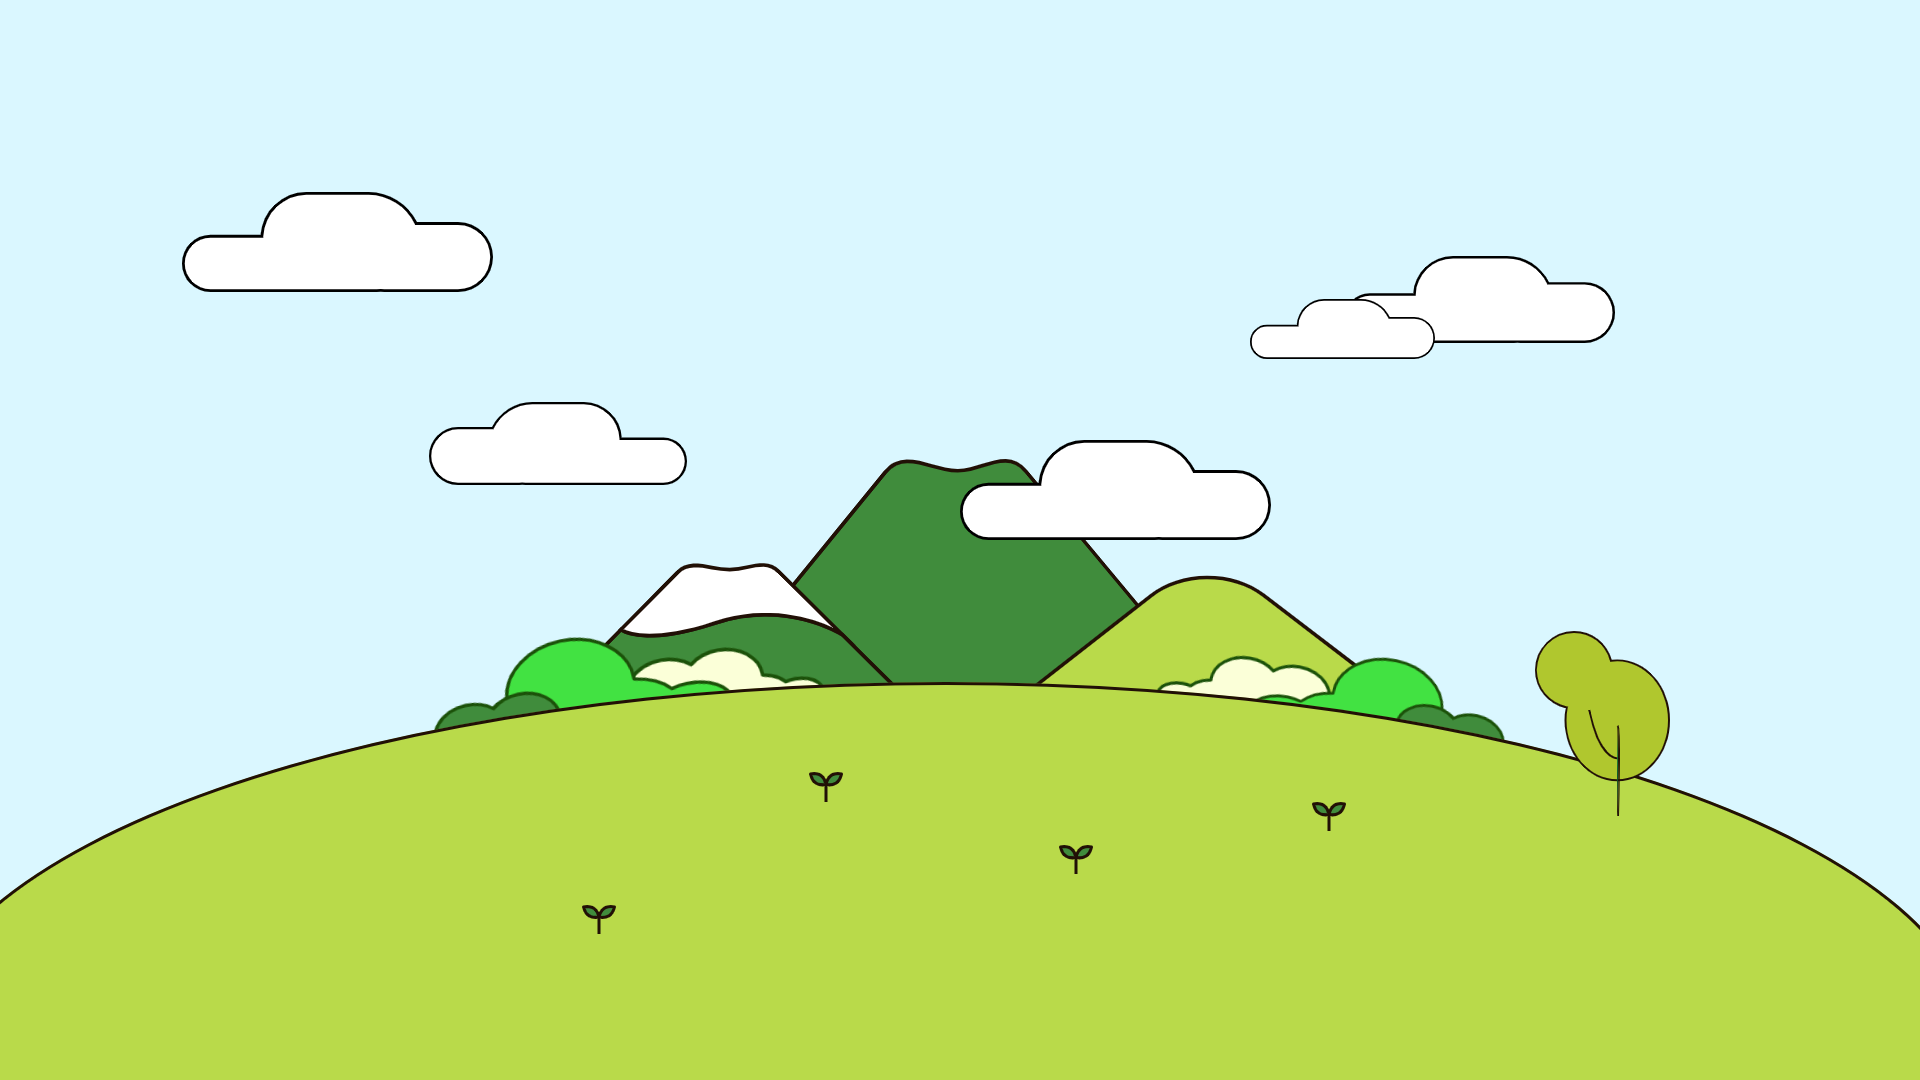
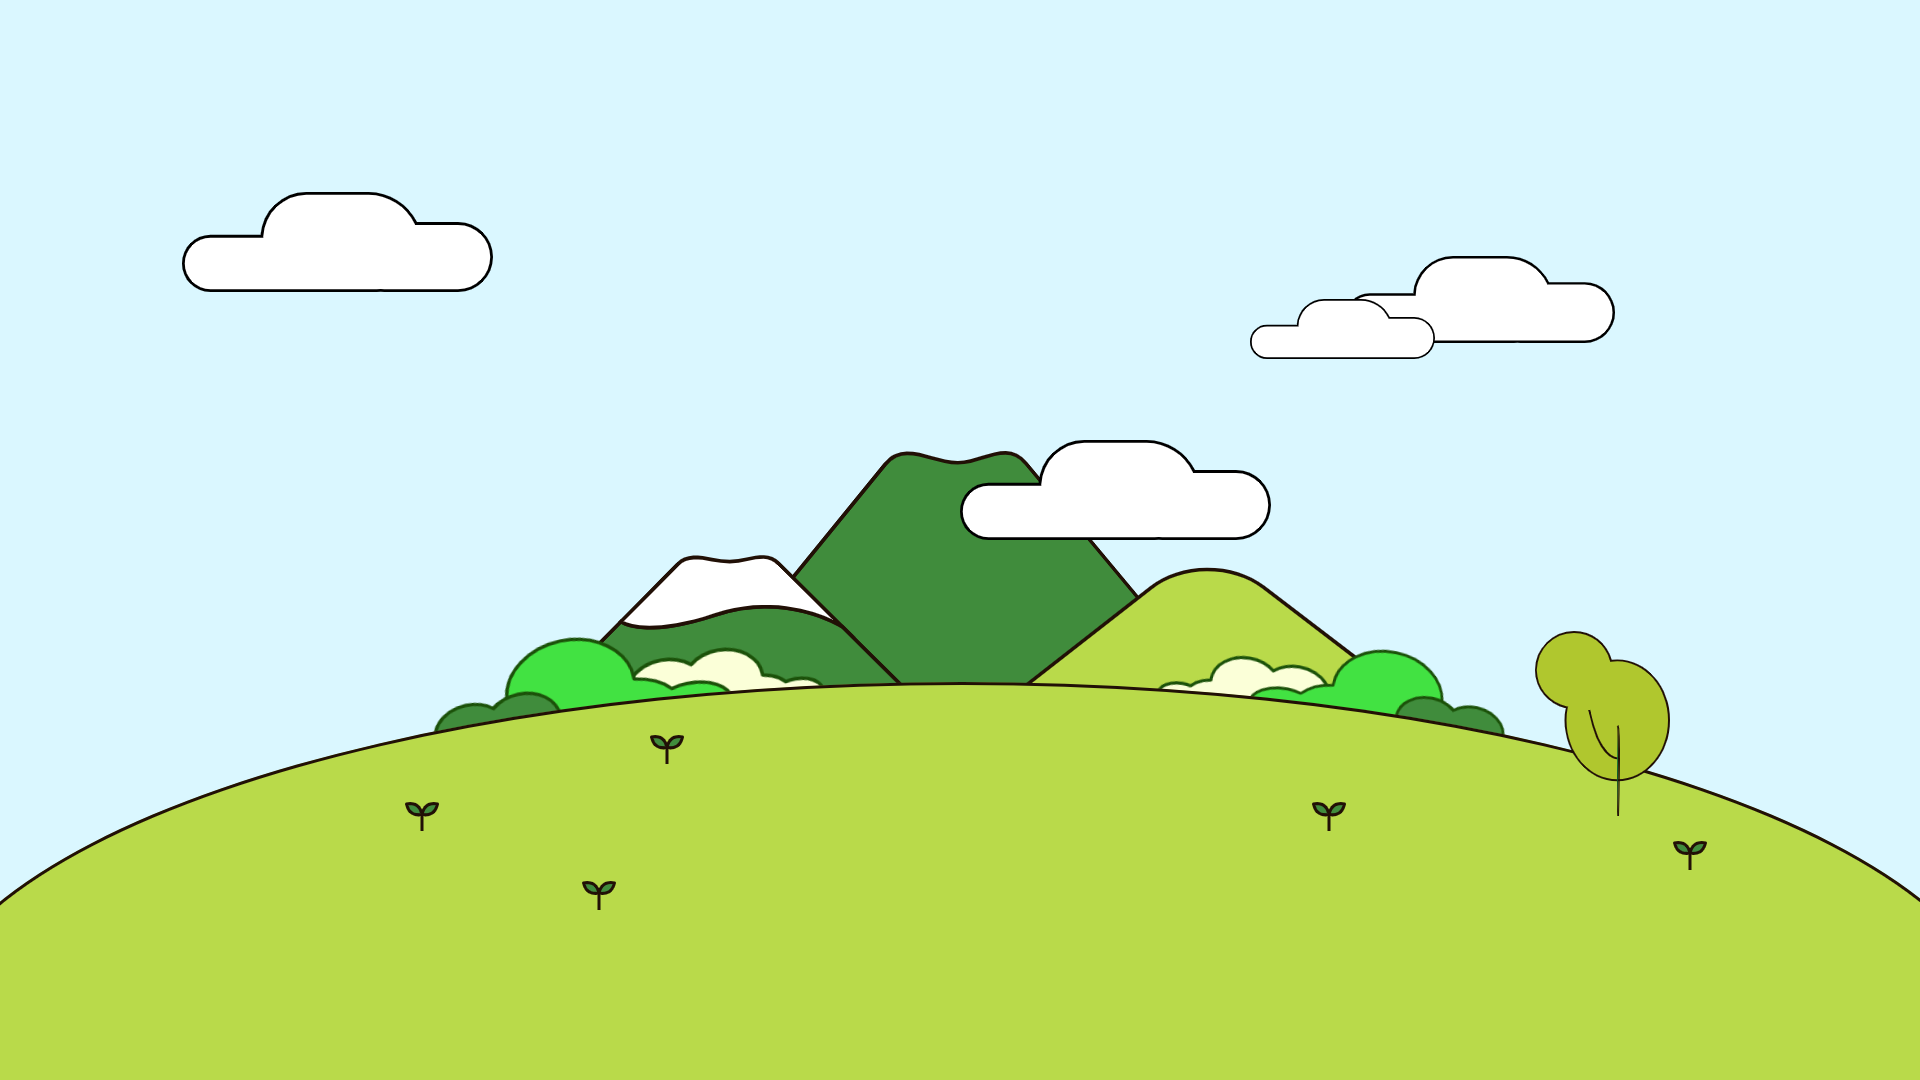
Feat: welceom 요소 애니메이션 추가, project 폰트컬러 변경, about,footer 이미지 변경

diff --git a/pages/index.html b/pages/index.html
@@ -66,8 +66,8 @@
     <article id="welcome">
     <section>
         <!-- 로엠 -->
-        <h2>Lorem Ipsum is simply<br>
-            dummy text of the printing and</h2>
+        <h2>백승진입니다.<br>
+            </h2>
         <p>Lorem Ipsum is simply dummy text of the printing and<br>
             typesetting industry.<br>
             Lorem Ipsum has been the industry's standard dummy text<br>
@@ -75,7 +75,11 @@
         <button class="downloadButton">Download</button>
     </section>
     <!-- 이미지 태그 -->
-    <img src="../assets/images/img_cat_png.png" alt="큰 고양이">
+        <div class="sprout-man">
+            <img class="sprout" src="../assets/images/새싹.png" alt="큰 고양이">
+            <img class="man" src="../assets/images/물주는사람.png" alt="큰 고양이">
+        </div>
+
 </article>
 
 
@@ -83,7 +87,7 @@
     <!-- about 아티클-->
     <article id="about">
         <!-- 이미지 태그 -->
-        <img src="../assets/images/img_4.png" alt="누운 고양이">
+        <img src="../assets/images/IMG_1495.JPG" alt="누운 고양이">
         <section>
             <!-- 로엠 -->
             <h2>Lorem Ipsum is simply<br>
@@ -148,7 +152,7 @@
             </div>
         </section>
 
-        <img src="../assets/images/img_5.png" alt="위 보는 고양이">
+        <img src="../assets/images/IMG_1503.JPG" alt="숲 이미지">
 
     </article>
 

diff --git a/layouts/main/article/welcome/welcome.css b/layouts/main/article/welcome/welcome.css
@@ -7,12 +7,33 @@
     align-items: center;
     padding: 0 320px;
     margin: 0;
+    height: 800px;
 }
 
 #welcome article {
     text-align: left;
+    ;
+}
+@keyframes fadeInUp {
+    from {
+        opacity: 0;
+        transform: translateY(20px);
+    }
+    to {
+        opacity: 1;
+        transform: translateY(0);
+    }
 }
 
+/* Apply animation to h2 and p tags */
+#welcome h2,
+#welcome p,
+#welcome .downloadButton,
+.sprout-man,
+.man
+{
+    animation: fadeInUp 1s ease-in-out; /* Adjust the duration and timing function as needed */
+}
 
 #welcome h2 {
     font-size: 48px;
@@ -26,6 +47,24 @@
     line-height: 20px;
     margin-bottom: 40px;
 }
+
+
+
+#welcome .sprout-man {
+    display: flex;
+}
+
+
+#welcome  .sprout {
+    width: 100%;
+    height: 100%;
+    margin: 615px 0 0 0;
+}
+
+#welcome .man {
+    margin: 275px 0 0 0;
+}
+
 
 #welcome img,
 #about img,

diff --git a/layouts/main/article/projects/projects.css b/layouts/main/article/projects/projects.css
@@ -5,7 +5,7 @@
 }
 
 #projects h2 {
-    color: var(--main-color);
+    color: #1B5028;
     font-size: 48px;
     line-height: 60px;
     margin-bottom: 15px;
@@ -18,7 +18,7 @@
 }
 
 #projects p .highlight {
-    color: var(--main-color);
+    color: #1B5028;
 }
 
 #projects .projects-api {

diff --git a/layouts/main/article/projects/projects.js b/layouts/main/article/projects/projects.js
@@ -1,6 +1,6 @@
 document.addEventListener("DOMContentLoaded", function () {
     let apiUrl = "https://picsum.photos/v2/list";
-    let currentPage = 2;
+    let currentPage = 4;
     let limit = 3;
 
     async function fetchImages() {
